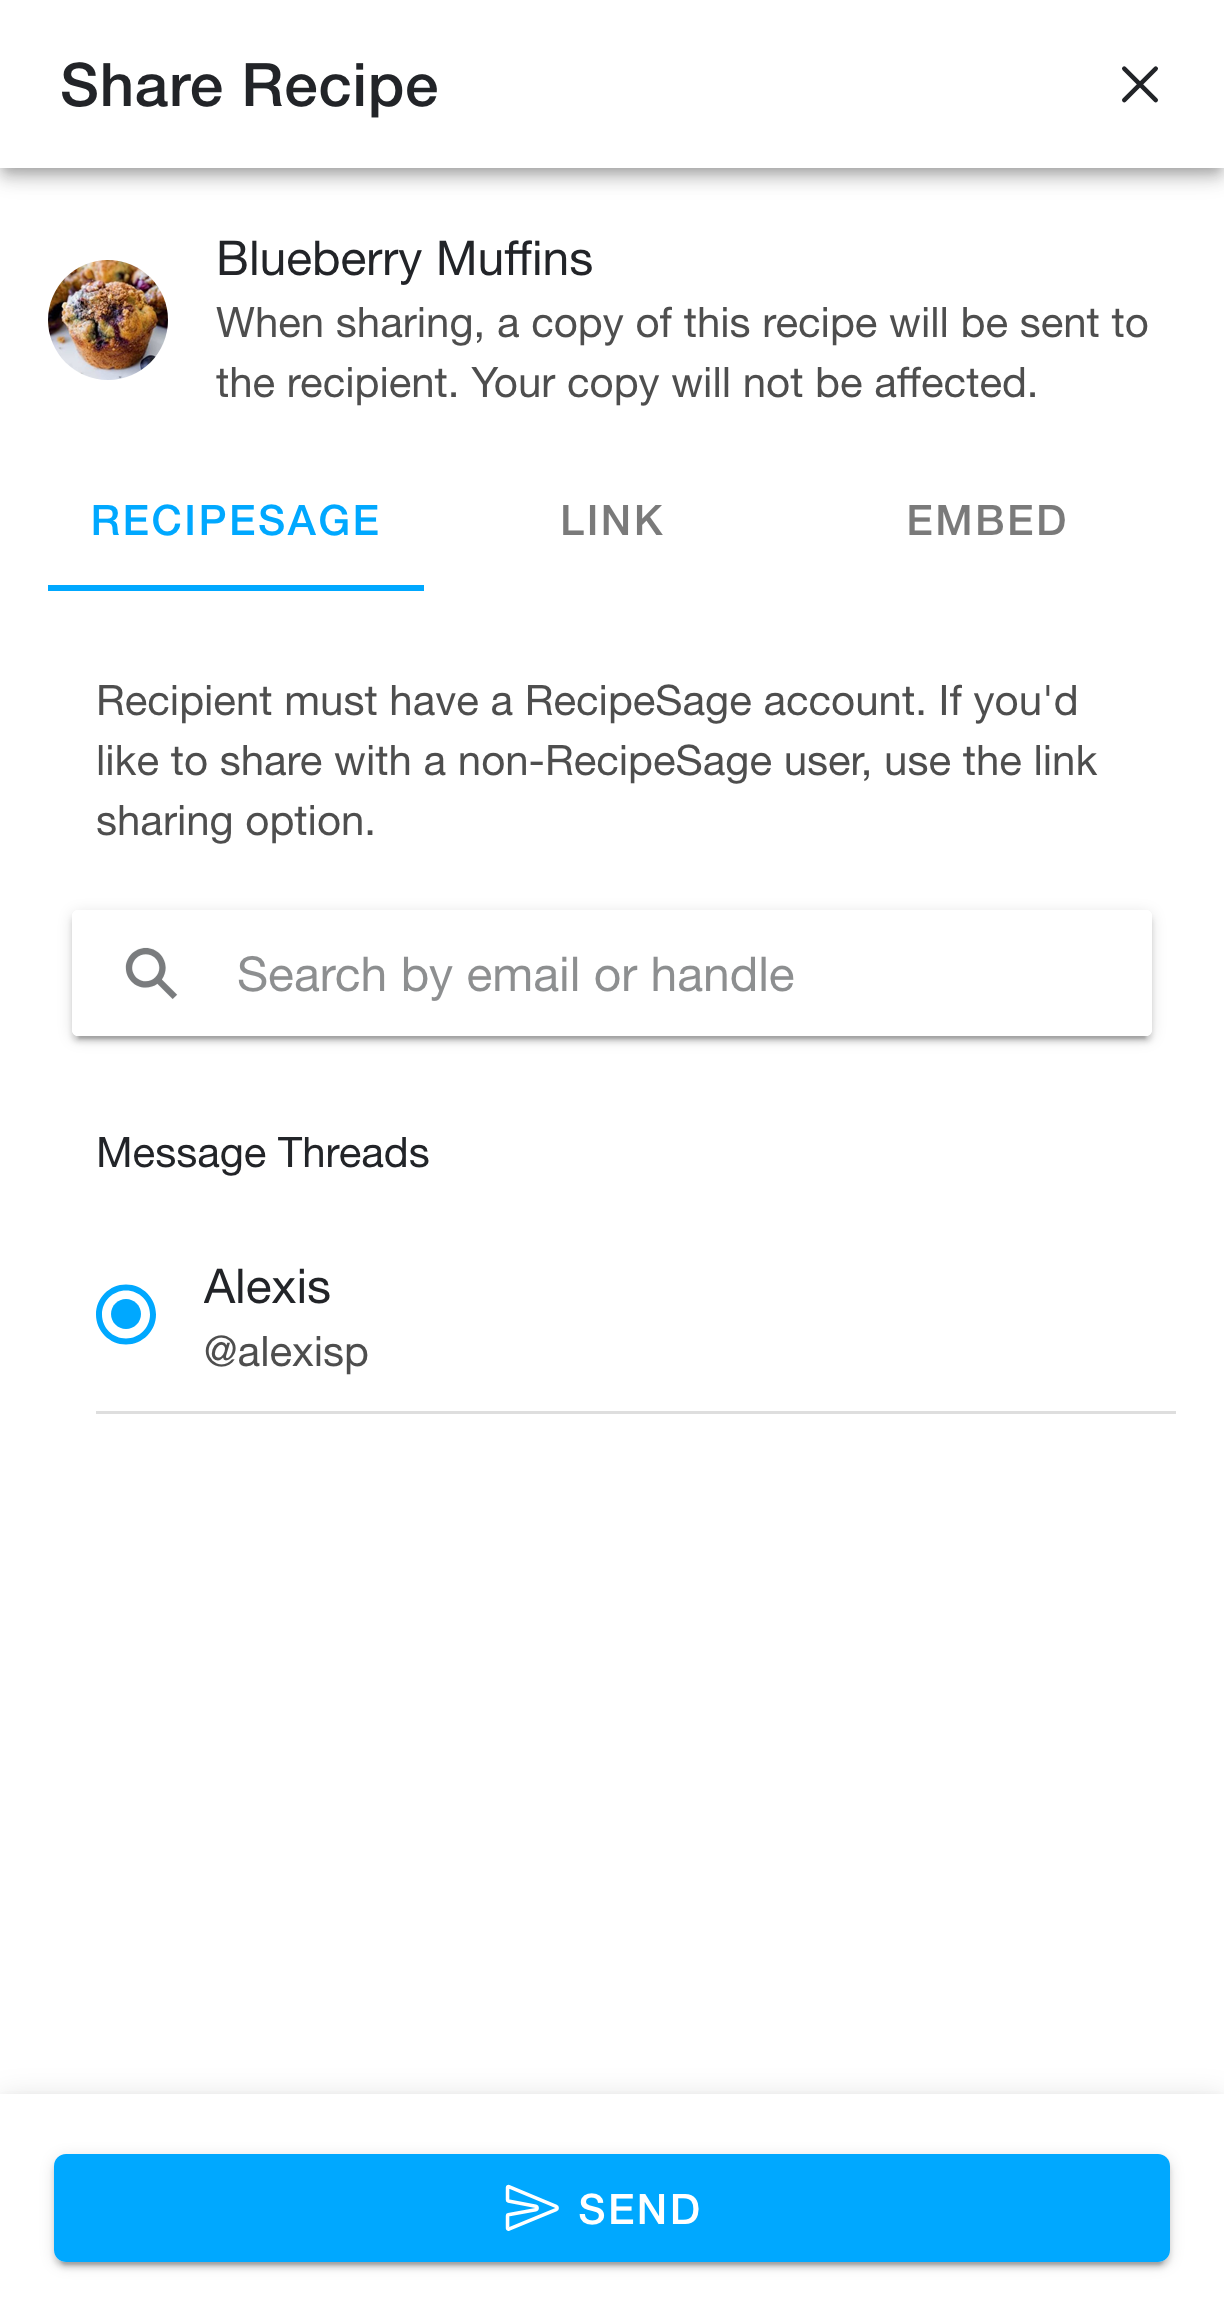
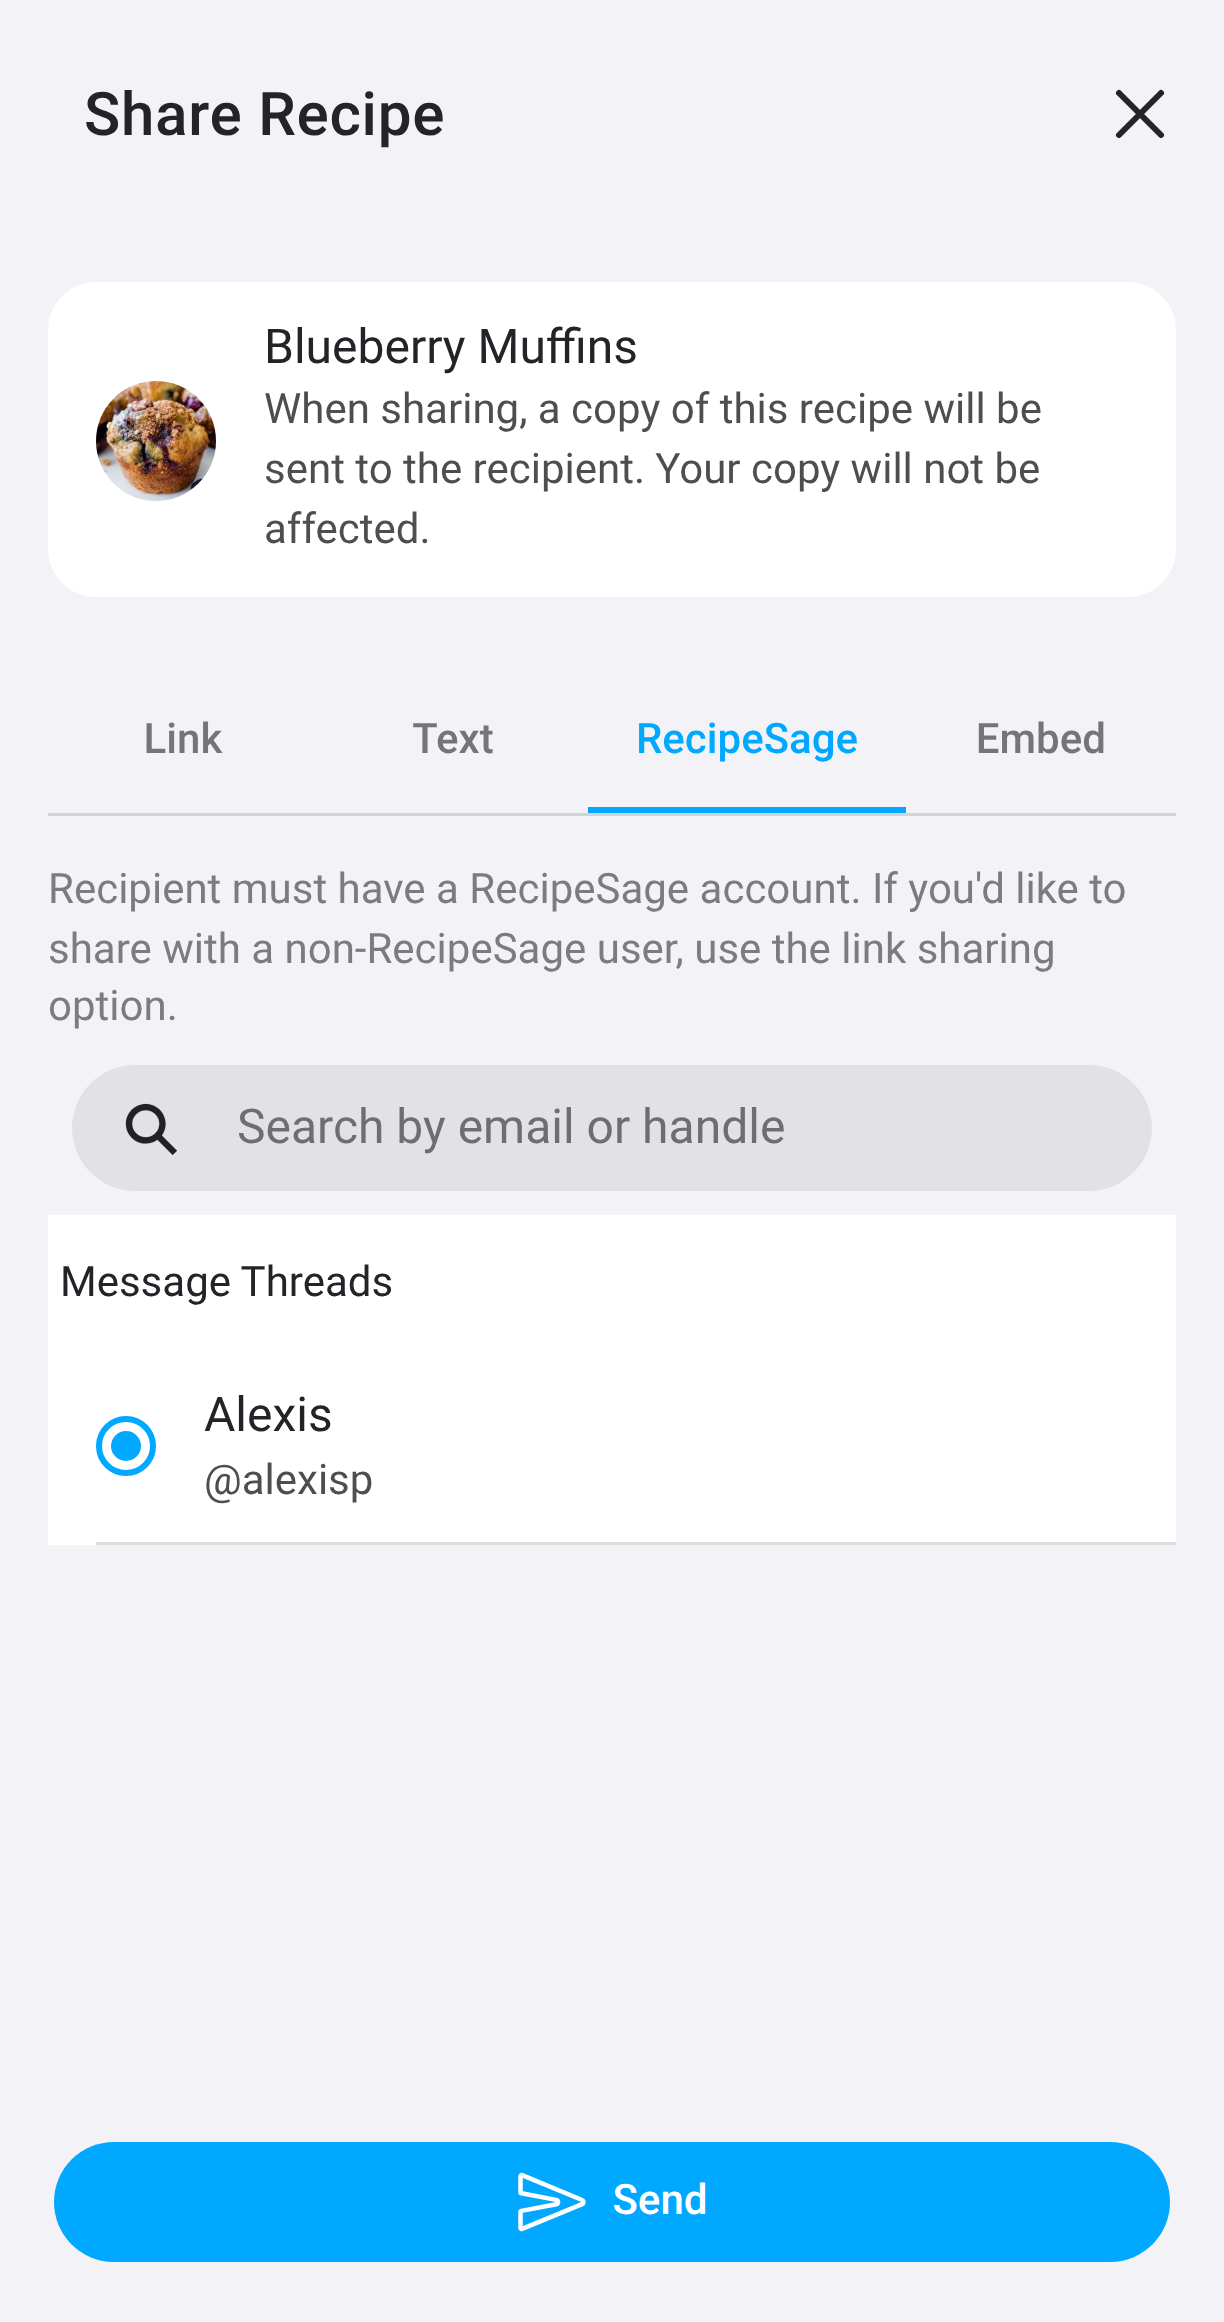
feat: update docs with new features and functionality

diff --git a/docs/tutorials/recipes/recipe-details.md b/docs/tutorials/recipes/recipe-details.md
@@ -106,7 +106,7 @@ To add or remove labels on a recipe, open the [📖 recipe editor](./edit-recipe
 
 <img className="screenshot" src="/img/recipe-details-actions.png" width="1224" height="2322" alt="Recipe actions in the options menu"></img>
 
-There are buttons for various recipe actions at the bottom of the recipe details page. The same actions are also available from the options menu in the top right corner (shown above), which additionally has a **Keep Screen On** toggle and, on small screens, a [📖 Layout on Small Screens](../settings/settings.md#recipe-layout-on-small-screens) option. Here is a brief summary of each of the actions:
+There are buttons for various recipe actions at the bottom of the recipe details page. The same actions are also available from the options menu in the top right corner (shown above), which additionally has a **Keep Screen On** toggle and a [📖 Layout](../settings/settings.md#recipe-layout) option. Here is a brief summary of each of the actions:
 
 ### Edit
 Takes you to the editing/authoring page for this recipe, allowing you to change details about this recipe such as instructions and ingredients.
@@ -121,7 +121,7 @@ Opens the add to shopping list dialogue for this recipe.
 Opens the add to meal plan dialogue for this recipe.
 
 ### Share
-Opens the share dialogue for this recipe, allowing you to send this recipe to another RecipeSage user, share it by link, or embed it.
+Opens the share dialogue for this recipe, allowing you to send this recipe to another RecipeSage user, share it by link or as text, or embed it.
 
 ### Make a Copy
 Creates a duplicate of the recipe in your own collection. Useful for keeping the original intact while you tweak the copy.
@@ -167,9 +167,10 @@ To share a recipe, open the recipe details page and click the share button in th
 
 **Note:** If you're looking for ways to share more than just a single recipe, see the [📖 sharing documentation](../people/sharing.md).
 
-There are three options for sharing a recipe:
+These are the options for sharing a recipe:
 - Directly within the app to a RecipeSage user
 - By creating a shareable link and sharing outside of the RecipeSage app
+- As plain text that you can paste anywhere
 - By embedding it into a website
 - Adding the recipe to your RecipeSage profile [📖 covered here](../people/your-profile.md)
 
@@ -177,9 +178,9 @@ There are three options for sharing a recipe:
 
 <img className="screenshot" src="/img/share-recipe-account.png" width="1224" height="2322" alt="Share recipe with RecipeSage account dialog"></img>
 
-The recipe sharing modal allows you to send a recipe to another RecipeSage user's account, share via link, or share via embed.
+The recipe sharing modal allows you to send a recipe to another RecipeSage user's account, share via link or text, or share via embed.
 
-To begin the process of sharing a recipe to another user's account, press the share button at the bottom of the recipe details page (as described in the recipe actions tutorial). You'll then be presented with the share modal shown in the image above.
+To begin the process of sharing a recipe to another user's account, press the share button at the bottom of the recipe details page (as described in the recipe actions tutorial). You'll then be presented with the share modal. To send to another user, select the "RecipeSage" tab.
 
 To select a recipient, type the email or @handle of the RecipeSage user you'd like to send the recipe to into the "Search by email or handle" field. Matching users will appear as you type so you can select the one you want.
 
@@ -193,7 +194,7 @@ After selecting the recipient user via either method, you'll be able to press th
 
 <img className="screenshot" src="/img/share-recipe-link.png" width="1224" height="2322" alt="Share recipe via link dialog"></img>
 
-The recipe sharing modal allows you to send a recipe to another RecipeSage user's account, share via link, or share via embed.
+The recipe sharing modal allows you to send a recipe to another RecipeSage user's account, share via link or text, or share via embed.
 
 To begin the process of sharing a recipe via link, press the share button at the bottom of the recipe details page (as described in the recipe actions tutorial). You'll then be presented with the share modal. To share by URL, select the "link" tab.
 
@@ -203,11 +204,23 @@ Note: The share button depicted to the right of the URL will only show up on som
 
 **Note:** This URL will only be valid if the recipe exists. If you delete the recipe, the link will become invalid.
 
+### As Text
+
+<img className="screenshot" src="/img/share-recipe-text.png" width="1224" height="2322" alt="Share recipe as text dialog"></img>
+
+Sharing as text is useful when you want to paste a recipe into an email or text message, so that the recipient doesn't need to open a link.
+
+To share a recipe as text, press the share button at the bottom of the recipe details page (as described in the recipe actions tutorial). You'll then be presented with the share modal. Select the "text" tab to see the recipe written out as plain text.
+
+Press the button to the right of the text to copy or share it. The button you see depends on your device.
+
+If you've scaled or converted the recipe, the text will show the scaled or converted amounts. Images and nutrition information are not included.
+
 ### By Embed
 
 <img className="screenshot" src="/img/share-recipe-embed.png" width="1224" height="2322" alt="Recipe embed code dialog"></img>
 
-The recipe sharing modal allows you to send a recipe to another RecipeSage user's account, share via link, or share via embed.
+The recipe sharing modal allows you to send a recipe to another RecipeSage user's account, share via link or text, or share via embed.
 
 To begin the process of sharing a recipe via embed, press the share button at the bottom of the recipe details page (as described in the recipe actions tutorial). You'll then be presented with the share modal. To share by embed, select the "embed" tab.
 

diff --git a/docs/tutorials/settings/settings.md b/docs/tutorials/settings/settings.md
@@ -78,15 +78,17 @@ The start page setting controls which page the app opens to when you first sign 
 
 When enabled, the nutritional information section on the edit-recipe page will automatically be expanded when the page loads. When disabled (the default), the section will start collapsed and must be expanded manually.
 
-## Recipe Layout on Small Screens
+## Recipe Layout
 
-This setting controls how ingredients and instructions are shown on the recipe page and in cook mode when your screen is too narrow to show them next to each other. You can choose from:
+This setting controls how ingredients and instructions are shown on the recipe page and in cook mode. You can choose from:
 
-- **Stacked** (default): ingredients are shown above instructions.
-- **Side by Side**: ingredients and instructions are shown next to each other in two narrow columns.
+- **Automatic** (default): ingredients are shown above instructions on small screens, and next to each other on larger screens.
+- **Stacked**: ingredients are shown above instructions.
+- **Side by Side**: ingredients are shown in a narrower column next to the instructions.
+- **Side by Side (Equal Width)**: ingredients and instructions are shown next to each other in two columns of the same width.
 - **Tabs**: tap a tab to switch between ingredients and instructions.
 
-On larger screens, ingredients and instructions are always shown side by side. On small screens, you can also change this setting from the options menu in the top right corner of a recipe.
+This setting is saved separately on each device, so you can choose a different layout on your phone and your tablet. You can also change it from the options menu in the top right corner of a recipe.
 
 ## Reset All Preferences
 
